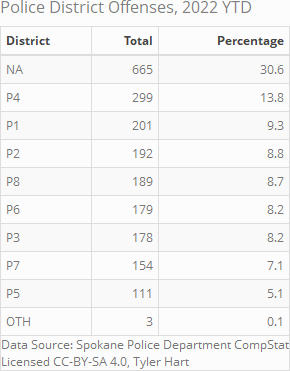
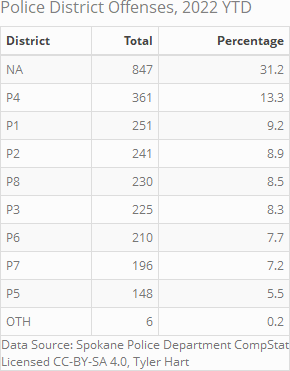
Updated tables

diff --git a/tables/markdown_table.annual_offense_totals.md b/tables/markdown_table.annual_offense_totals.md
@@ -4,4 +4,4 @@
 |2019 |    42|     750|     1858|       19|         70|        0|          4|            0|      5|      0|  217|     290|          52|  9912|       1205|         10|             0|
 |2020 |    99|     687|     1949|       26|         52|        0|          0|            1|     10|      1|  190|     266|          31|  8937|       1072|          0|             0|
 |2021 |   101|     731|     1699|       30|         64|        0|          0|            0|     10|      1|  219|     260|          63|  7865|       1081|          1|             0|
-|2022 |     9|     105|      274|        8|          5|        0|          1|            0|      0|      0|   28|      45|           9|  1416|        271|          0|             0|
+|2022 |    10|     129|      325|        9|         10|        0|          1|            0|      2|      0|   41|      58|          12|  1792|        326|          0|             0|

diff --git a/tables/markdown_table.district_stats.md b/tables/markdown_table.district_stats.md
@@ -1,12 +1,12 @@
 |District | Total| Percentage|
 |:--------|-----:|----------:|
-|P4       | 11283|       17.0|
-|P3       | 10409|       15.7|
-|P1       |  9555|       14.4|
-|P2       |  8726|       13.2|
-|P7       |  6833|       10.3|
-|P6       |  6327|        9.5|
-|P8       |  6039|        9.1|
-|P5       |  5323|        8.0|
-|NA       |  1585|        2.4|
-|OTH      |   204|        0.3|
+|P4       | 11345|       17.0|
+|P3       | 10456|       15.6|
+|P1       |  9605|       14.4|
+|P2       |  8775|       13.1|
+|P7       |  6875|       10.3|
+|P6       |  6358|        9.5|
+|P8       |  6080|        9.1|
+|P5       |  5360|        8.0|
+|NA       |  1767|        2.6|
+|OTH      |   207|        0.3|

diff --git a/tables/markdown_table.district_stats_ytd.md b/tables/markdown_table.district_stats_ytd.md
@@ -1,12 +1,12 @@
 |District | Total| Percentage|
 |:--------|-----:|----------:|
-|NA       |   665|       30.6|
-|P4       |   299|       13.8|
-|P1       |   201|        9.3|
-|P2       |   192|        8.8|
-|P8       |   189|        8.7|
-|P6       |   179|        8.2|
-|P3       |   178|        8.2|
-|P7       |   154|        7.1|
-|P5       |   111|        5.1|
-|OTH      |     3|        0.1|
+|NA       |   847|       31.2|
+|P4       |   361|       13.3|
+|P1       |   251|        9.2|
+|P2       |   241|        8.9|
+|P8       |   230|        8.5|
+|P3       |   225|        8.3|
+|P6       |   210|        7.7|
+|P7       |   196|        7.2|
+|P5       |   148|        5.5|
+|OTH      |     6|        0.2|

diff --git a/tables/markdown_table_monthly.assault.md b/tables/markdown_table_monthly.assault.md
@@ -1,8 +1,8 @@
 |Month | 2017| 2018| 2019| 2020| 2021| 2022|
 |:-----|----:|----:|----:|----:|----:|----:|
 |01    |   NA|   60|   67|   63|   44|   52|
-|02    |   NA|   69|   43|   48|   53|   53|
-|03    |   NA|   70|   53|   40|   75|   NA|
+|02    |   NA|   69|   43|   48|   53|   55|
+|03    |   NA|   70|   53|   40|   75|   22|
 |04    |   NA|   71|   71|   55|   53|   NA|
 |05    |   NA|  100|   74|   71|   68|   NA|
 |06    |   NA|   83|   67|   63|   62|   NA|

diff --git a/tables/markdown_table_monthly.burglary.md b/tables/markdown_table_monthly.burglary.md
@@ -1,8 +1,8 @@
 |Month | 2017| 2018| 2019| 2020| 2021| 2022|
 |:-----|----:|----:|----:|----:|----:|----:|
 |01    |   NA|  175|  167|  155|  146|  156|
-|02    |   NA|  118|  117|  141|  118|  118|
-|03    |   NA|  128|  135|  175|  143|   NA|
+|02    |   NA|  118|  117|  141|  118|  128|
+|03    |   NA|  128|  135|  175|  143|   41|
 |04    |   NA|  173|  171|  160|  117|   NA|
 |05    |   NA|  177|  185|  157|  134|   NA|
 |06    |   NA|  171|  170|  166|  146|   NA|

diff --git a/tables/markdown_table_monthly.rape.md b/tables/markdown_table_monthly.rape.md
@@ -1,8 +1,8 @@
 |Month | 2017| 2018| 2019| 2020| 2021| 2022|
 |:-----|----:|----:|----:|----:|----:|----:|
 |01    |   NA|   17|   27|   14|   16|   17|
-|02    |   NA|   19|   18|   11|   19|   11|
-|03    |   NA|   24|   20|   11|   31|   NA|
+|02    |   NA|   19|   18|   11|   19|   14|
+|03    |   NA|   24|   20|   11|   31|   10|
 |04    |   NA|   25|   18|   14|   24|   NA|
 |05    |   NA|   28|   20|   18|   15|   NA|
 |06    |   NA|   41|   21|   22|   23|   NA|

diff --git a/tables/markdown_table_monthly.theft.md b/tables/markdown_table_monthly.theft.md
@@ -1,8 +1,8 @@
 |Month | 2017| 2018| 2019| 2020| 2021| 2022|
 |:-----|----:|----:|----:|----:|----:|----:|
 |01    |   NA| 1007|  817|  769|  761|  693|
-|02    |   NA|  783|  616|  755|  528|  723|
-|03    |   NA|  902|  736|  662|  618|   NA|
+|02    |   NA|  783|  616|  755|  528|  793|
+|03    |   NA|  902|  736|  662|  618|  306|
 |04    |   NA|  901|  919|  675|  601|   NA|
 |05    |   NA| 1006|  993|  693|  642|   NA|
 |06    |   NA| 1042|  898|  721|  684|   NA|

diff --git a/tables/markdown_table_monthly.veh. theft.md b/tables/markdown_table_monthly.veh. theft.md
@@ -1,8 +1,8 @@
 |Month | 2017| 2018| 2019| 2020| 2021| 2022|
 |:-----|----:|----:|----:|----:|----:|----:|
 |01    |   NA|  165|   91|  127|   81|  129|
-|02    |   NA|  133|   93|  107|   66|  142|
-|03    |   NA|  120|  100|   81|   56|   NA|
+|02    |   NA|  133|   93|  107|   66|  148|
+|03    |   NA|  120|  100|   81|   56|   49|
 |04    |   NA|   96|   91|   97|   72|   NA|
 |05    |   NA|  140|  115|   70|   97|   NA|
 |06    |   NA|  140|  116|   93|   45|   NA|

diff --git a/tables/markdown_table_monthly.arson.md b/tables/markdown_table_monthly.arson.md
@@ -2,7 +2,7 @@
 |:-----|----:|----:|----:|----:|----:|----:|
 |01    |   NA|    3|    4|    3|    6|    5|
 |02    |   NA|    2|   NA|    6|    5|    4|
-|03    |   NA|    4|    4|    3|    3|   NA|
+|03    |   NA|    4|    4|    3|    3|    1|
 |04    |   NA|    1|    3|    7|   14|   NA|
 |05    |   NA|    7|    5|    9|    7|   NA|
 |06    |   NA|    1|    5|   12|   10|   NA|

diff --git a/tables/markdown_table_monthly.drive-by.md b/tables/markdown_table_monthly.drive-by.md
@@ -1,7 +1,7 @@
 |Month | 2017| 2018| 2019| 2020| 2021| 2022|
 |:-----|----:|----:|----:|----:|----:|----:|
 |01    |   NA|    4|    3|    2|    4|    2|
-|02    |   NA|    1|    4|   NA|    5|    6|
+|02    |   NA|    1|    4|   NA|    5|    7|
 |03    |   NA|    1|   NA|    1|   NA|   NA|
 |04    |   NA|    1|    1|    4|    2|   NA|
 |05    |   NA|   NA|   NA|    5|   NA|   NA|

diff --git a/tables/markdown_table_monthly.murder.md b/tables/markdown_table_monthly.murder.md
@@ -2,7 +2,7 @@
 |:-----|----:|----:|----:|----:|----:|----:|
 |01    |   NA|   NA|    1|   NA|   NA|   NA|
 |02    |   NA|   NA|   NA|    1|   NA|   NA|
-|03    |   NA|    1|   NA|   NA|    1|   NA|
+|03    |   NA|    1|   NA|   NA|    1|    2|
 |04    |   NA|    1|    1|   NA|    2|   NA|
 |05    |   NA|    1|   NA|    1|    1|   NA|
 |06    |   NA|    1|   NA|    1|    1|   NA|

diff --git a/tables/markdown_table_monthly.robbery.md b/tables/markdown_table_monthly.robbery.md
@@ -2,7 +2,7 @@
 |:-----|----:|----:|----:|----:|----:|----:|
 |01    |   NA|   26|   28|   23|   13|   25|
 |02    |   NA|   24|   17|   22|   24|   20|
-|03    |   NA|   19|   21|   28|   17|   NA|
+|03    |   NA|   19|   21|   28|   17|   13|
 |04    |   NA|   15|   19|   24|   26|   NA|
 |05    |   NA|   15|   22|   17|   19|   NA|
 |06    |   NA|   21|   24|   21|   28|   NA|
